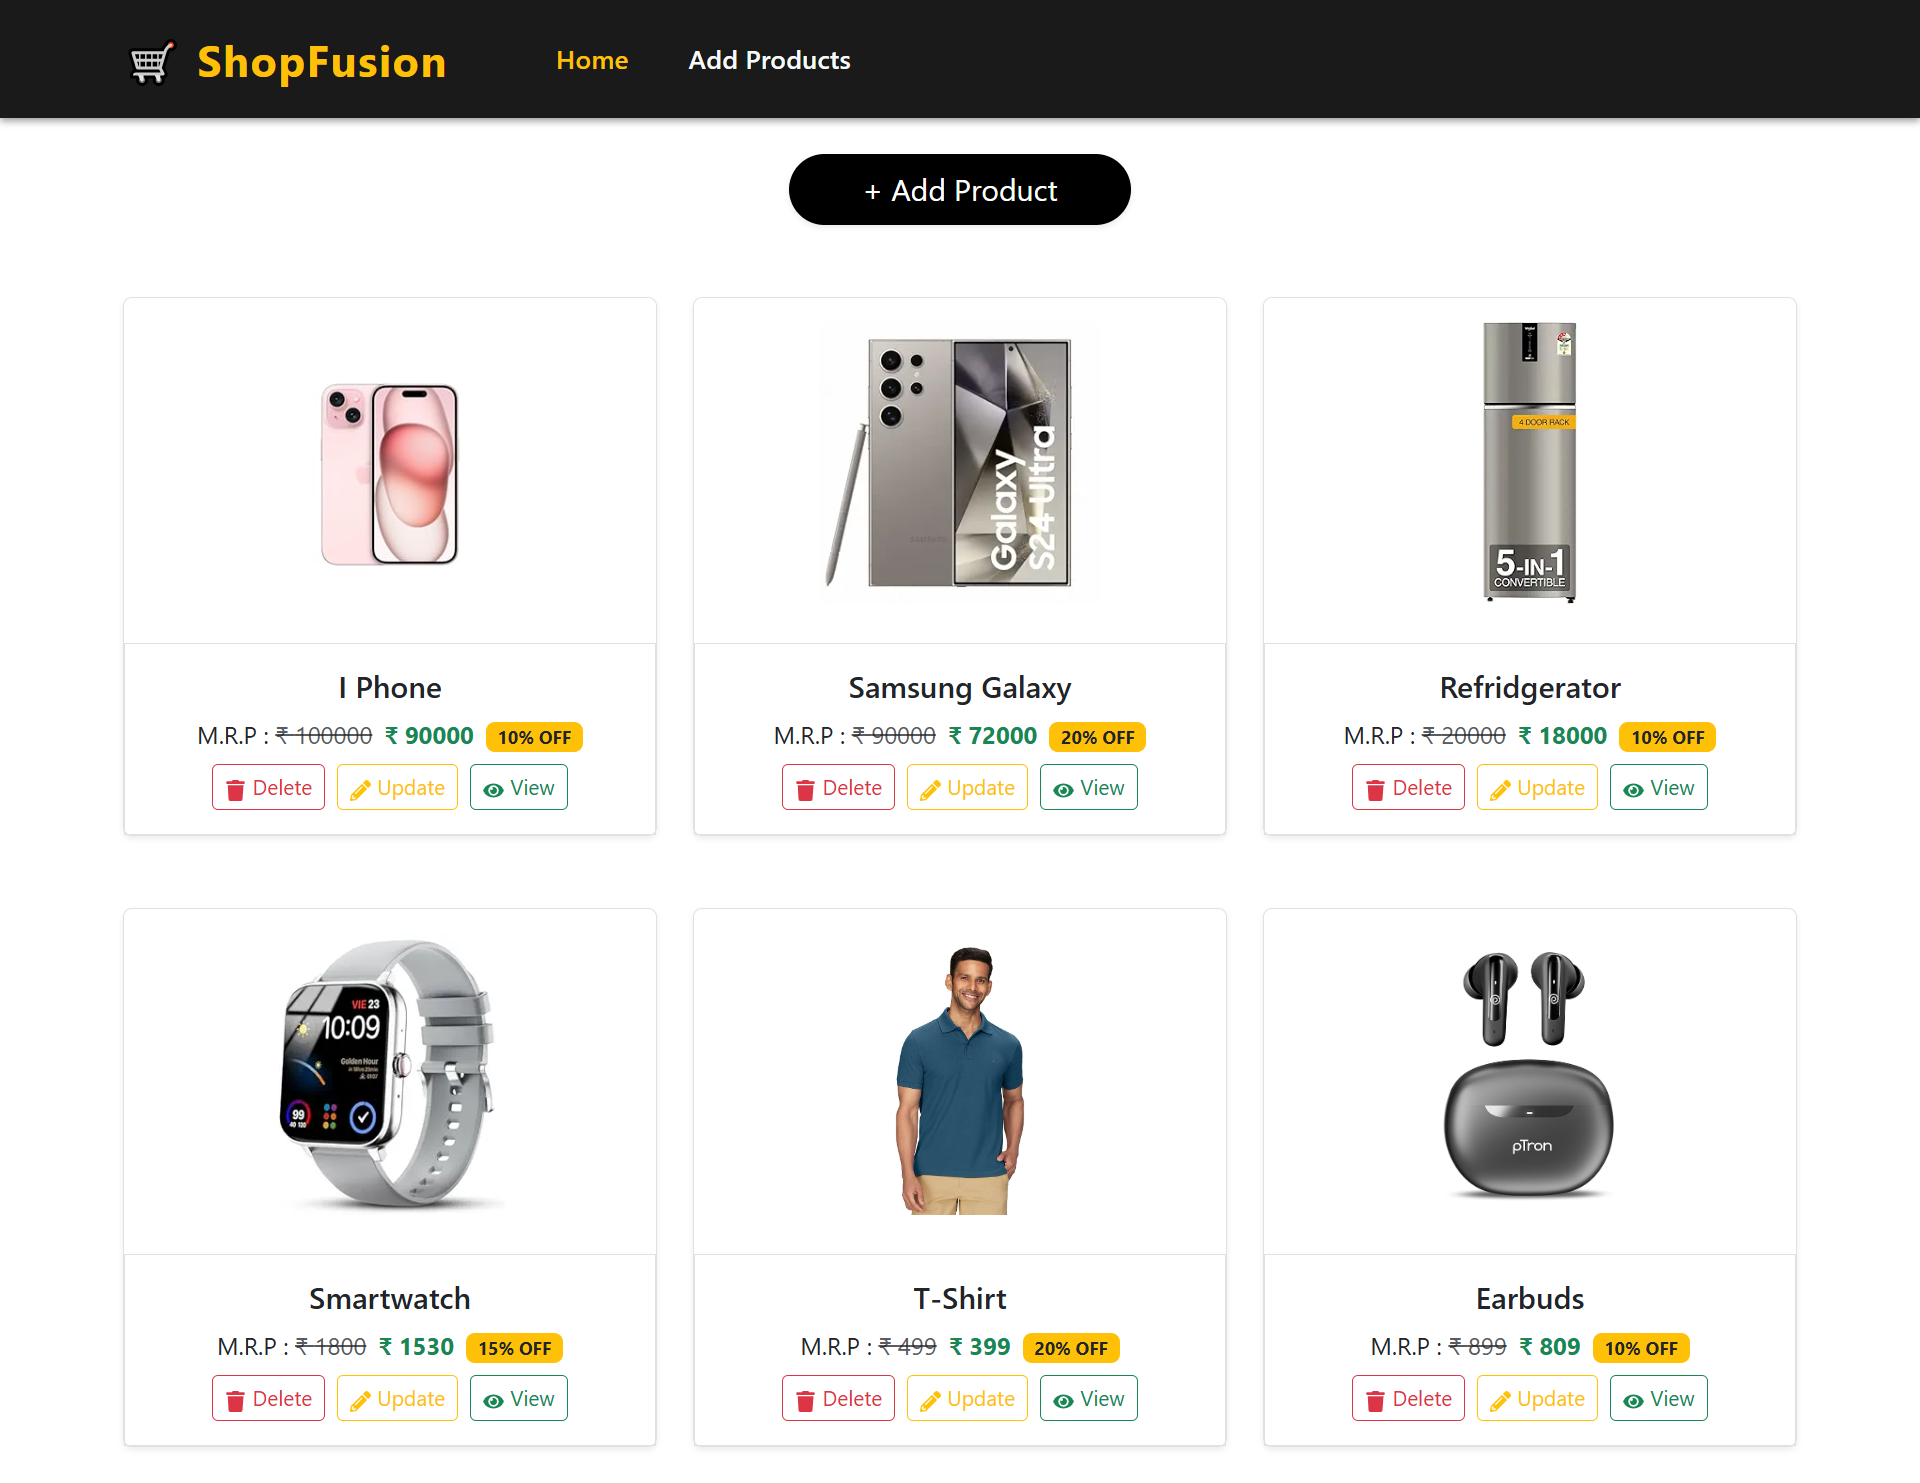
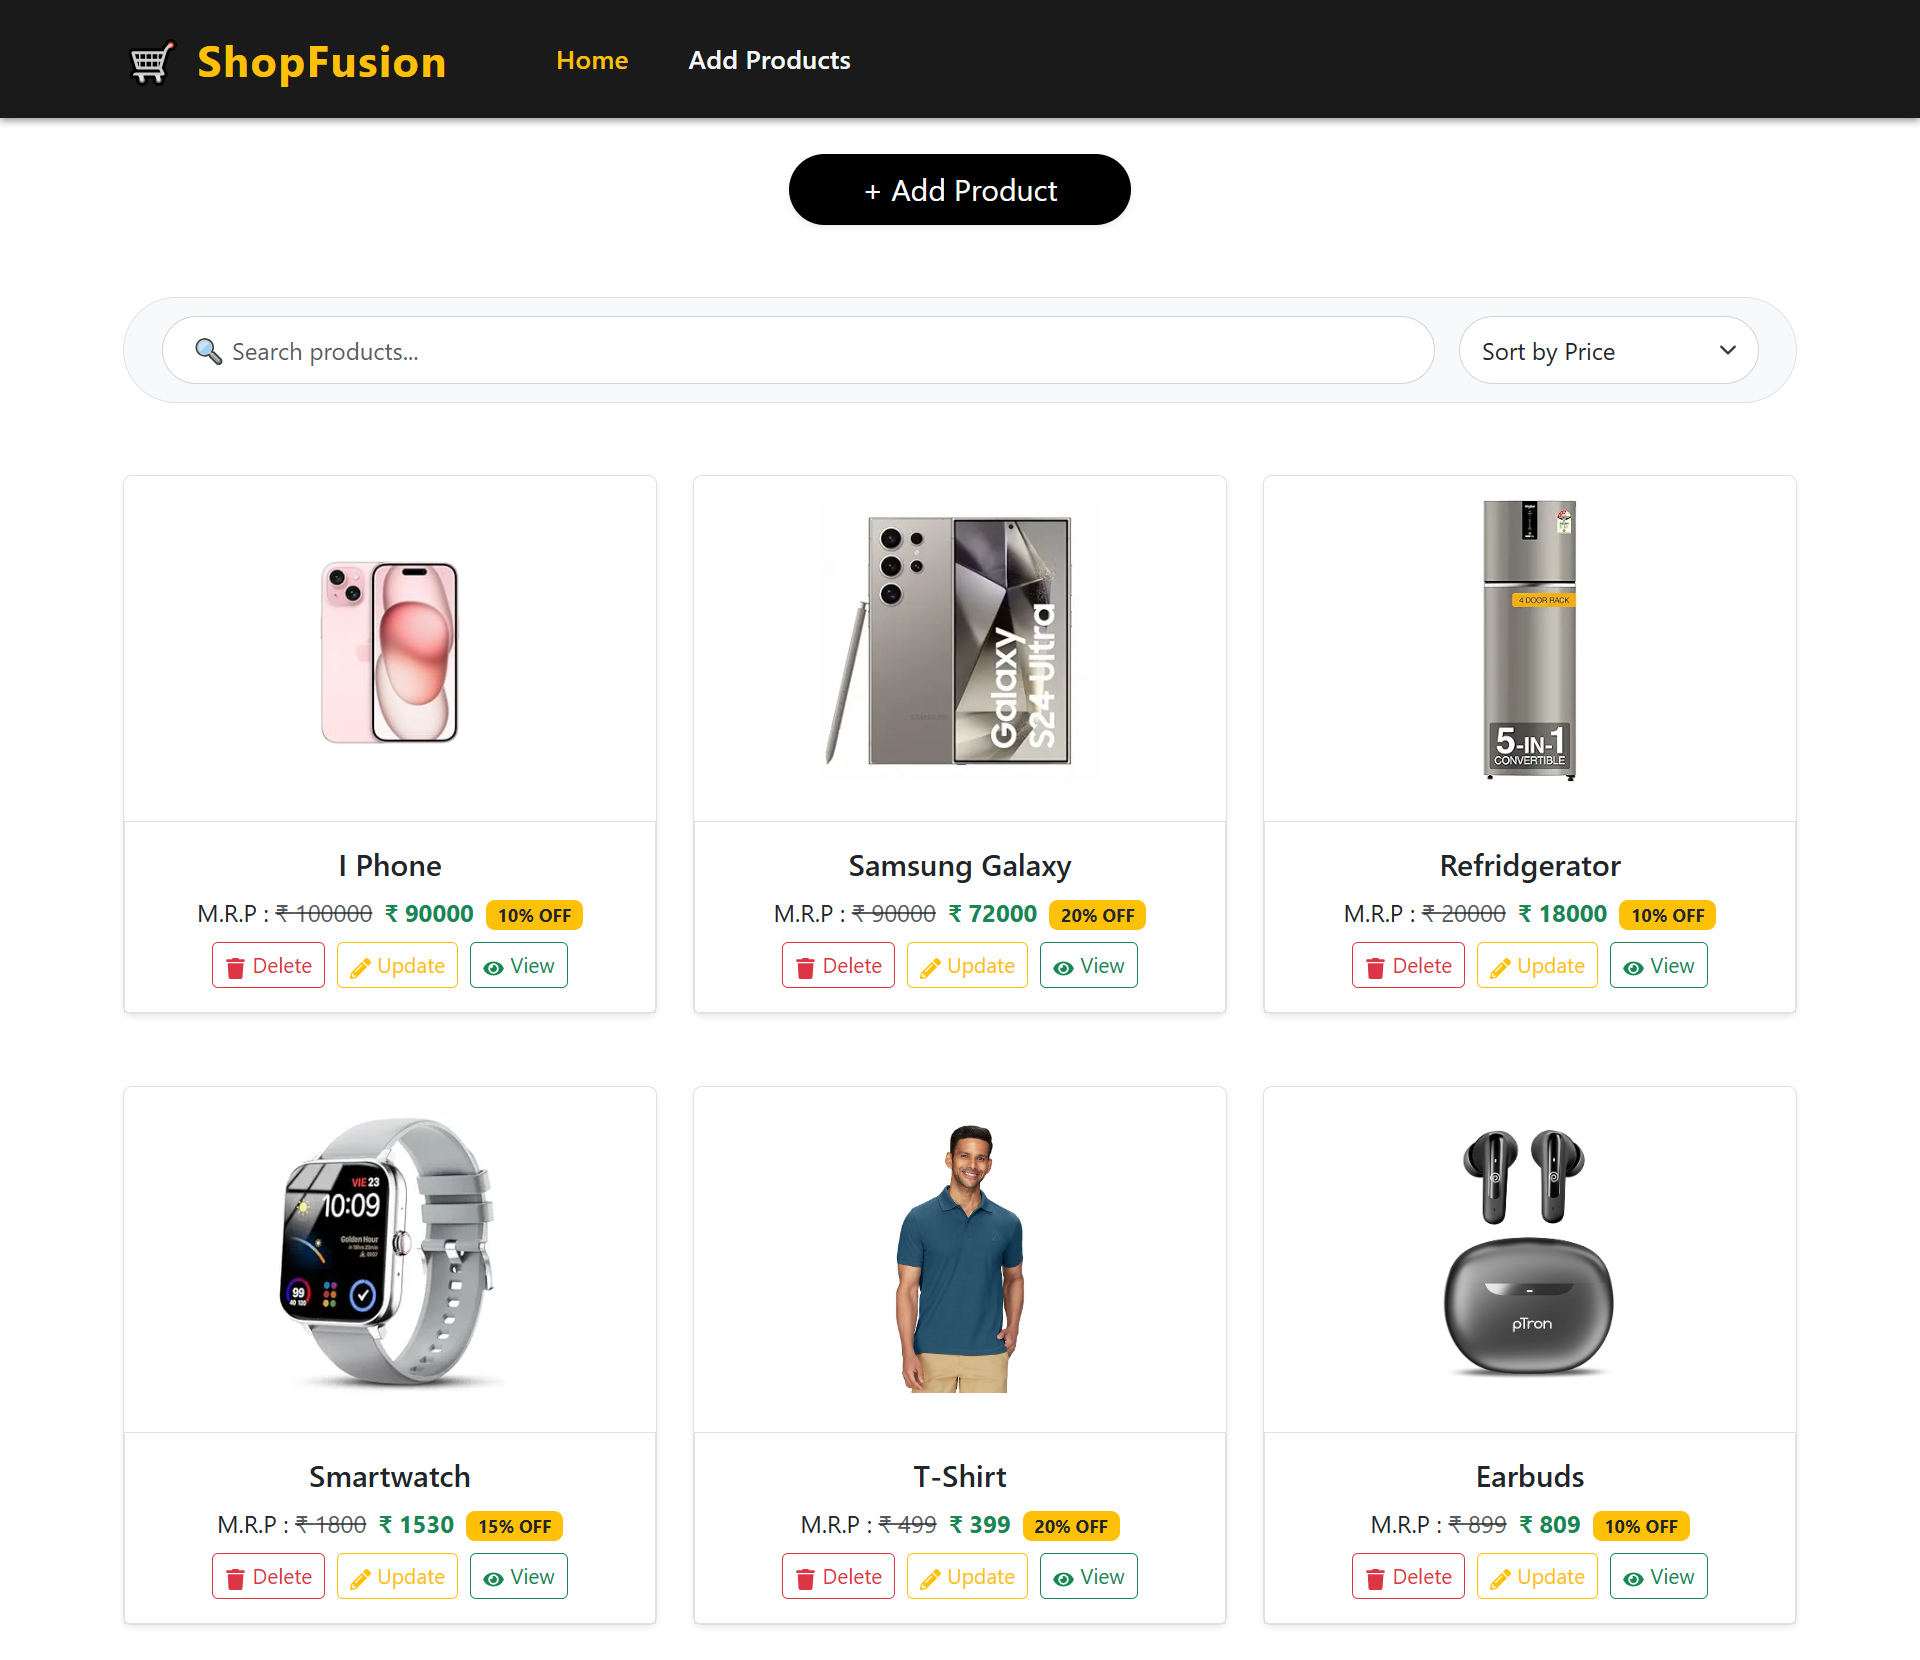
searching & sorting features added

diff --git a/src/pages/Home.jsx b/src/pages/Home.jsx
@@ -2,10 +2,21 @@ import { useEffect, useState } from "react";
 import { NavLink } from "react-router-dom";
 import axios from "axios";
 import { FaEye, FaTrash, FaPencilAlt } from "react-icons/fa";
+import { toast } from "react-toastify";
+
 
 
 const Home = () => {
+
   const [products, setProducts] = useState([]);
+
+
+
+  const [searchTerm, setSearchTerm] = useState("");
+
+  const [sortOrder, setSortOrder] = useState("");
+
+
 
   const ShowApi = async () => {
     await axios
@@ -18,19 +29,35 @@ const Home = () => {
     ShowApi();
   }, []);
 
-  
+
 
   async function trash(id) {
     if (confirm("Do you want to delete this product?")) {
       await axios
         .delete(`https://68be8fd39c70953d96ecb6a2.mockapi.io/user/${id}`)
         .then(() => {
-          alert("Product Deleted ❌");
+          toast.error("Product Deleted ❌");
           ShowApi();
         })
         .catch((err) => console.log(err));
     }
   }
+
+
+
+  // ---- filter ane sort mate logic ----
+  const filteredProducts = products.filter((p) =>
+    p.productName.toLowerCase().includes(searchTerm.toLowerCase())
+  );
+
+  const sortedProducts = [...filteredProducts].sort((a, b) => {
+    if (sortOrder === "lowToHigh") return a.price - b.price;
+    if (sortOrder === "highToLow") return b.price - a.price;
+    return 0;
+  });
+
+
+
 
   return (
     <>
@@ -44,15 +71,42 @@ const Home = () => {
       </div>
 
       <div className="container mt-5">
+
+
+        <div className="filter-bar d-flex justify-content-between align-items-center mb-5 flex-wrap gap-3">
+          <input
+            type="text"
+            className="form-control search-input"
+            placeholder="🔍 Search products..."
+            value={searchTerm}
+            onChange={(e) => setSearchTerm(e.target.value)}
+          />
+
+          <select
+            className="form-select sort-select"
+            value={sortOrder}
+            onChange={(e) => setSortOrder(e.target.value)}
+          >
+            <option value="">Sort by Price</option>
+            <option value="lowToHigh">Low to High</option>
+            <option value="highToLow">High to Low</option>
+          </select>
+        </div>
+
         <div className="row g-4">
-          {products &&
-            products.map((item, index) => {
+
+          
+          {sortedProducts.length > 0 ? (
+            sortedProducts.map((item, index) => {
               const discountedPrice = (
                 item.price -
                 (item.price * item.discount) / 100
               ).toFixed(0);
 
+
+
               return (
+                
                 <div className="col-md-4 mb-4" key={index}>
                   <div className="card shadow-sm h-100 border">
                     <img
@@ -65,9 +119,9 @@ const Home = () => {
                       <h5 className="card-title">{item.productName}</h5>
 
                       <div className="mb-2">
-                        M.R.P :{" "} 
+                        M.R.P :{" "}
                         <span className="text-muted text-decoration-line-through me-2">
-                           ₹ {item.price}
+                          ₹ {item.price}
                         </span>
                         <span className="fw-bold text-success">
                           ₹ {discountedPrice}
@@ -106,9 +160,16 @@ const Home = () => {
                   </div>
                 </div>
               );
-            })}
+            })
+          ) : (
+            <p className="text-center mt-5">No products found</p>
+          )}
+
+
+
         </div>
       </div>
+
     </>
   );
 };

diff --git a/src/pages/AddStd.jsx b/src/pages/AddStd.jsx
@@ -2,18 +2,24 @@ import { useForm } from "react-hook-form";
 import axios from "axios";
 import { useNavigate, useParams } from "react-router-dom";
 import { useEffect } from "react";
+import { toast } from "react-toastify"; 
 
 
 const AddStd = () => {
+
   const { register, handleSubmit, reset } = useForm();
+
   const redirect = useNavigate();
+
   const { id } = useParams();
 
   async function singleStd() {
+
     await axios
       .get(`https://68be8fd39c70953d96ecb6a2.mockapi.io/user/${id}`)
       .then((res) => reset(res.data))
       .catch((err) => console.log(err));
+
   }
 
   useEffect(() => {
@@ -22,12 +28,15 @@ const AddStd = () => {
     }
   }, [id]);
 
+
+
   async function addData(data) {
+
     if (id == null) {
       await axios
         .post("https://68be8fd39c70953d96ecb6a2.mockapi.io/user", data)
         .then(() => {
-          alert("Product Added ✅");
+          toast.success("Product Added ✅");  
           reset();
         })
         .catch((err) => console.log(err));
@@ -38,21 +47,27 @@ const AddStd = () => {
           data
         )
         .then(() => {
-          alert("Product Updated ✏");
+          toast.info("Product Updated ✏");  
         })
         .catch((err) => console.log(err));
     }
     redirect("/");
   }
 
+
   return (
+
+    
     <div className="container d-flex justify-content-center align-items-start mt-5 mb-5">
+
+
       <div className="addstd-card p-4 w-50 shadow-sm">
         <h3 className="text-center mb-4">
           {id ? "Update Product" : "Add Product"}
         </h3>
 
         <form method="post" onSubmit={handleSubmit(addData)} >
+          
           <div className="mb-3">
             <label className="form-label">Product Name</label>
             <input
@@ -120,6 +135,8 @@ const AddStd = () => {
         </form>
       </div>
     </div>
+
+
   );
 };
 

diff --git a/src/index.css b/src/index.css
@@ -303,3 +303,41 @@
   background-color: #000;
   border: none;
 }
+
+
+
+/* css for searching and sorting */
+
+.filter-bar {
+  background: #f8f9fa;
+  border: 1px solid #dee2e6;
+  border-radius: 50px;
+  padding: 12px 25px;
+}
+
+.search-input {
+  flex: 1;
+  min-width: 250px;
+  border-radius: 50px;
+  padding: 10px 20px;
+  border: 1px solid #ced4da;
+  transition: all 0.3s ease;
+}
+
+.search-input:focus {
+  border-color: #000;
+  box-shadow: 0 0 0 0.15rem rgba(0, 0, 0, 0.2);
+}
+
+.sort-select {
+  width: 200px;
+  border-radius: 50px;
+  padding: 10px 15px;
+  border: 1px solid #ced4da;
+  transition: all 0.3s ease;
+}
+
+.sort-select:focus {
+  border-color: #000;
+  box-shadow: 0 0 0 0.15rem rgba(0, 0, 0, 0.2);
+}

diff --git a/src/App.jsx b/src/App.jsx
@@ -3,6 +3,8 @@ import Navbar from "./layout/Navbar"
 import Home from "./pages/Home"
 import AddStd from "./pages/AddStd"
 import View from "./pages/View"
+import { ToastContainer } from "react-toastify";
+import "react-toastify/dist/ReactToastify.css";
 
 
 function App() {
@@ -26,6 +28,9 @@ function App() {
 
 
      </Routers>
+
+
+     <ToastContainer position="top-right" autoClose={3000} />
 
     </>
   )

diff --git a/README.md b/README.md
@@ -1,8 +1,8 @@
 # 🛒 E-Commerce Functionality App
 
 This project is a **Multi-Page E-Commerce Functionality Application** built using **React** and **Bootstrap**.  
-Users can **add, view, update, and delete products**, just like on platforms such as **Amazon or Flipkart**.  
-All products are stored in a mock API, and the **discounted price is calculated automatically**.
+Users can **add, view, update, delete, search, and sort products**, just like on platforms such as **Amazon or Flipkart**.  
+All products are stored in a mock API, the **discounted price is calculated automatically**, and users can **search or sort products by name, price, or discount**.
 
 ---
 
@@ -13,6 +13,10 @@ All products are stored in a mock API, and the **discounted price is calculated 
 - Automatically shows **discounted price**
 - Update or delete any product directly from the card
 - View detailed product page with full description
+- **Search products by name** from the product list
+- **Sort products** by:
+  - Price (Low → High / High → Low)
+  - Discount (Low → High / High → Low)
 
 ---
 
@@ -38,10 +42,10 @@ All products are stored in a mock API, and the **discounted price is calculated 
 
 ## 📸 Project Preview
 ### 🏠 Home Page
-<img src="./home.png" alt="Home Page" width="600"/>
+<img src="./home.png" alt="Home Page" />
 
 ### ➕ Add Product Page
-<img src="./addproduct.png" alt="Add Product Page" width="600"/>
+<img src="./addproduct.png" alt="Add Product Page" />
 
 ### 🔍 View Product Page
-<img src="./view.png" alt="View Product Page" width="600"/>
+<img src="./view.png" alt="View Product Page" />
